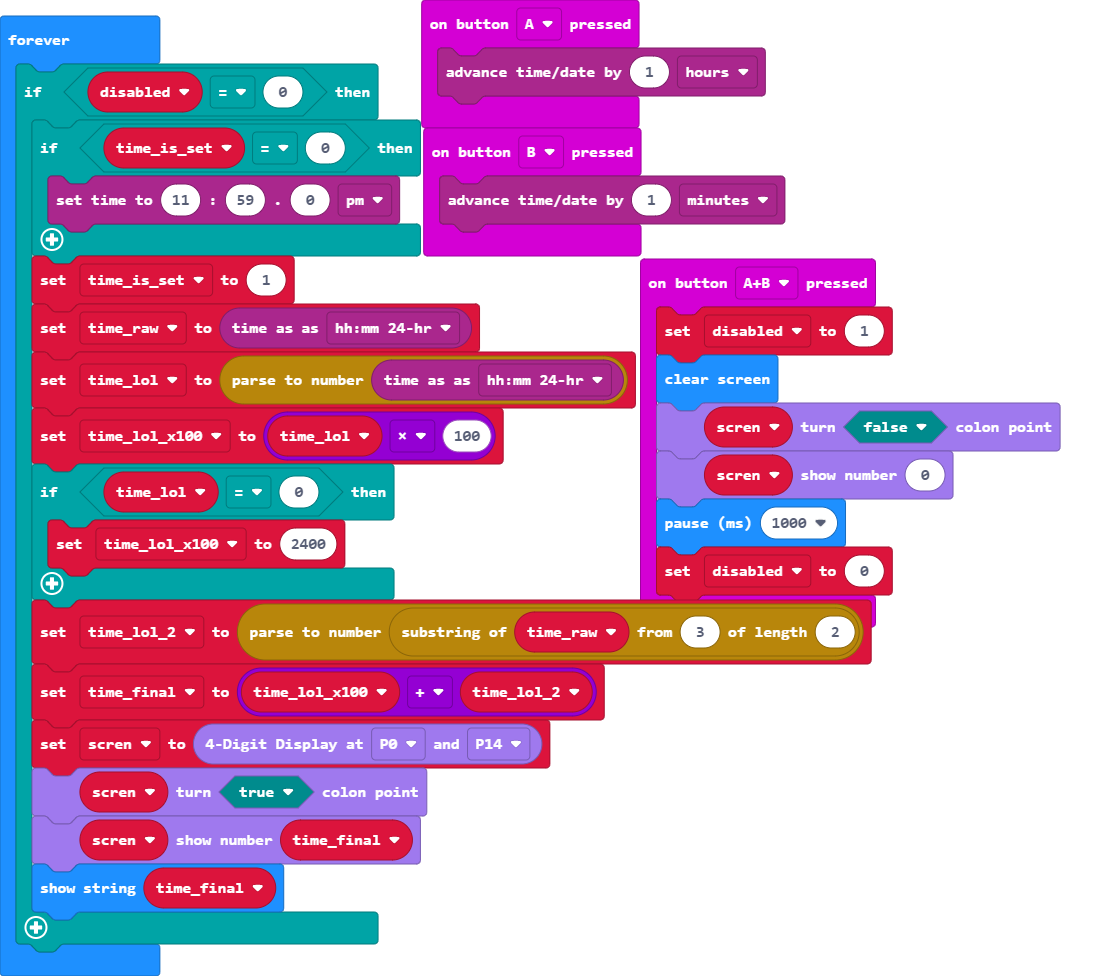
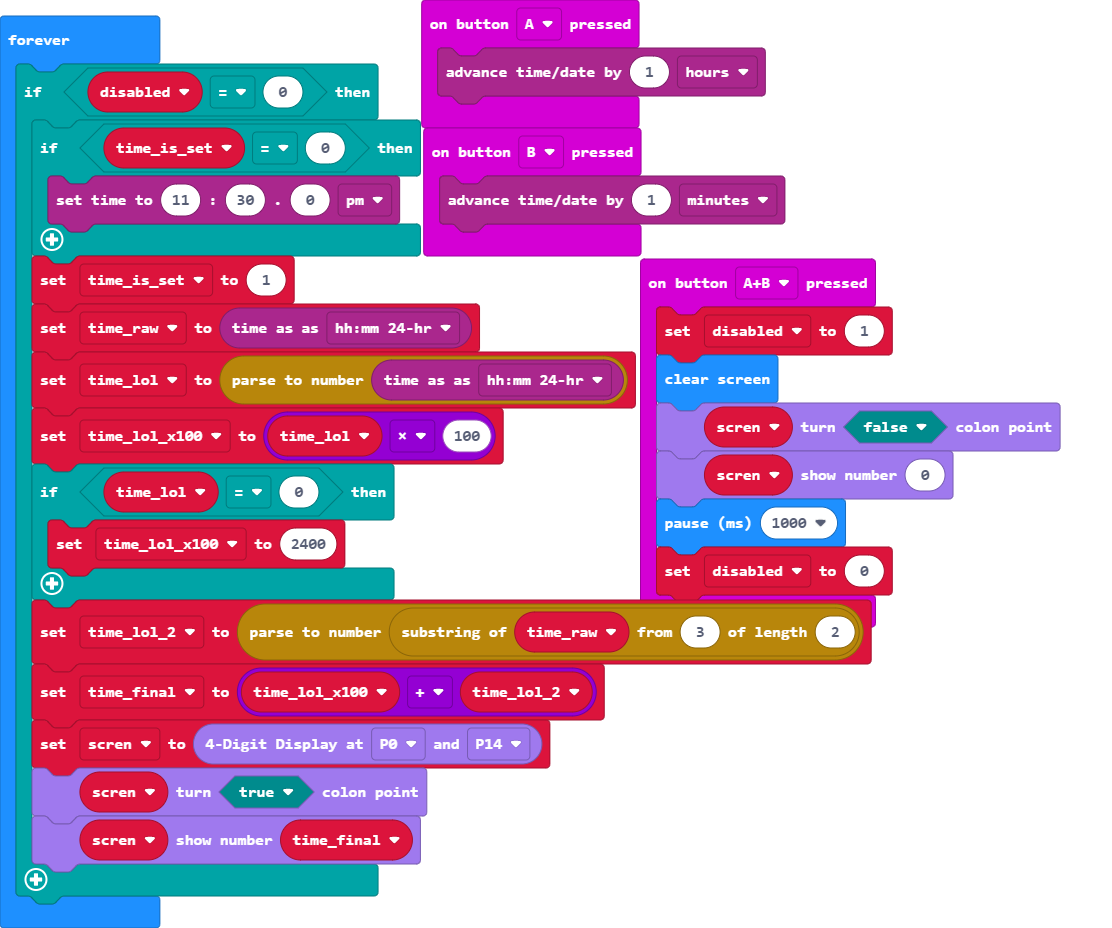
Update main.blocks, main.ts

diff --git a/main.ts b/main.ts
@@ -23,7 +23,7 @@ input.onButtonPressed(Button.B, function () {
 basic.forever(function () {
     if (disabled == 0) {
         if (time_is_set == 0) {
-            timeanddate.setTime(11, 59, 0, timeanddate.MornNight.PM)
+            timeanddate.setTime(11, 30, 0, timeanddate.MornNight.PM)
         }
         time_is_set = 1
         time_raw = timeanddate.time(timeanddate.TimeFormat.HHMM24hr)
@@ -37,6 +37,5 @@ basic.forever(function () {
         scren = grove.createDisplay(DigitalPin.P0, DigitalPin.P14)
         scren.point(true)
         scren.show(time_final)
-        basic.showString("" + (time_final))
     }
 })
